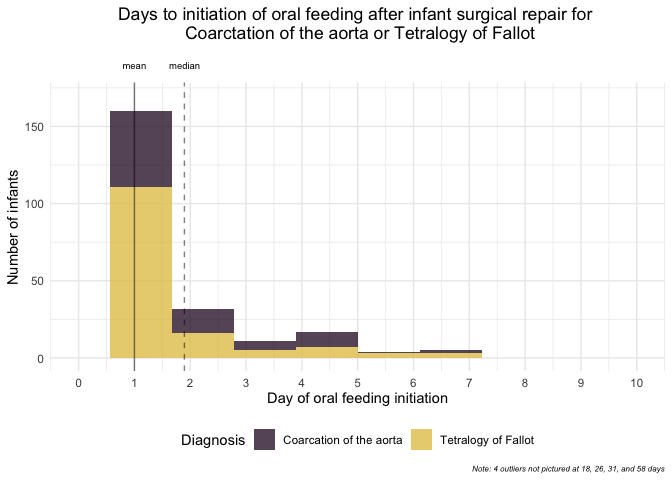
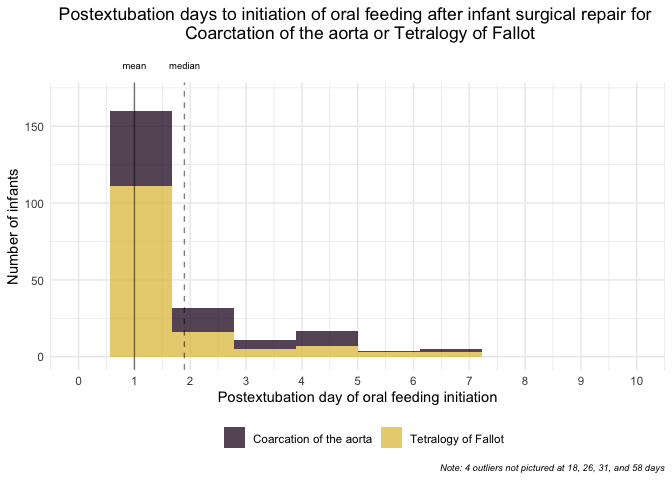
Complete RQ1 visualization 1 (ggplot)

diff --git a/rq1_vis.md b/rq1_vis.md
@@ -12,100 +12,69 @@ On average, how long (days) did it take to initiate the first oral feed
 in the ICU after extubation?
 
 ``` r
+# Create original ggplot
 p <- ggplot() +
-  geom_histogram(data = df_final, aes(x = enteral_d_oral_initiate_day, 
-                    fill = diagnosis),
-                bins = 10, alpha = 0.8)  +
-  scale_fill_manual(name = "Diagnosis", 
-                    labels = c("Coarcation of the aorta",
-                               "Tetralogy of Fallot"),
-                      values = c(CoA = "#371c38", ToF = "#e3c559")) +
+  geom_histogram(
+    data = df_final,
+    aes(
+      x = enteral_d_oral_initiate_day,
+      fill = diagnosis
+    ), 
+    bins = 10, alpha = 0.8
+  ) +
+  scale_fill_manual(
+    name = " ",
+    labels = c("Coarcation of the aorta", "Tetralogy of Fallot"),
+    values = c(CoA = "#371c38", ToF = "#e3c559")
+  ) +
   theme_minimal() +
   theme(
-    plot.title = element_text(hjust = 0.5, margin = margin(0,0,30,0)),
-    plot.caption = element_text(face = "italic", size = 6),
-    legend.position = "bottom") +
-  scale_x_continuous(breaks = seq(0, 10, 1), lim = c(0 , 10)) +
-  labs(title = "Days to initiation of oral feeding after infant surgical repair for \n Coarctation of the aorta or Tetralogy of Fallot",
-       caption = "Note: 4 outliers not pictured at 18, 26, 31, and 58 days") +
-  xlab("Day of oral feeding initiation") +
-  ylab("Number of infants") 
-  scale_fill_brewer(name = "Cut Grade", 
-                    labels = c("Very Bad", "Bad", 
-                               "Mediocre", "Nice", "Very Nice"))
-```
+    plot.title = element_text(
+      hjust = 0.5,
+      margin = margin(0, 0, 30, 0)
+    ),
+    plot.caption = element_text(
+      face = "italic",
+      size = 7
+    ),
+    legend.position = "bottom"
+  ) +
+  scale_x_continuous(
+    breaks = seq(0, 10, 1), lim = c(0, 10)
+  ) +
+  labs(
+    title = "Postextubation days to initiation of oral feeding after infant surgical repair for \n Coarctation of the aorta or Tetralogy of Fallot",
+    caption = "Note: 4 outliers not pictured at 18, 26, 31, and 58 days"
+  ) +
+  xlab("Postextubation day of oral feeding initiation") +
+  ylab("Number of infants")
 
-    ## <ggproto object: Class ScaleDiscrete, Scale, gg>
-    ##     aesthetics: fill
-    ##     axis_order: function
-    ##     break_info: function
-    ##     break_positions: function
-    ##     breaks: waiver
-    ##     call: call
-    ##     clone: function
-    ##     dimension: function
-    ##     drop: TRUE
-    ##     expand: waiver
-    ##     get_breaks: function
-    ##     get_breaks_minor: function
-    ##     get_labels: function
-    ##     get_limits: function
-    ##     guide: legend
-    ##     is_discrete: function
-    ##     is_empty: function
-    ##     labels: Very Bad Bad Mediocre Nice Very Nice
-    ##     limits: NULL
-    ##     make_sec_title: function
-    ##     make_title: function
-    ##     map: function
-    ##     map_df: function
-    ##     n.breaks.cache: NULL
-    ##     na.translate: TRUE
-    ##     na.value: NA
-    ##     name: Cut Grade
-    ##     palette: function
-    ##     palette.cache: NULL
-    ##     position: left
-    ##     range: <ggproto object: Class RangeDiscrete, Range, gg>
-    ##         range: NULL
-    ##         reset: function
-    ##         train: function
-    ##         super:  <ggproto object: Class RangeDiscrete, Range, gg>
-    ##     rescale: function
-    ##     reset: function
-    ##     scale_name: brewer
-    ##     train: function
-    ##     train_df: function
-    ##     transform: function
-    ##     transform_df: function
-    ##     super:  <ggproto object: Class ScaleDiscrete, Scale, gg>
+# Create data frame with mean and median
+df_stats <- df_final %>%
+  summarize(
+    mean = mean(enteral_d_oral_initiate_day),
+    median = median(enteral_d_oral_initiate_day)
+  )
 
-``` r
-# Create df with mean and median 
-df_stats <- df_final %>% 
-  summarize(mean = mean(enteral_d_oral_initiate_day),
-            median = median(enteral_d_oral_initiate_day)) 
-
-
-p + 
-  geom_vline(data = df_stats, aes(xintercept = mean), col = "black", linetype = "dashed", alpha = 0.5) +
-  geom_vline(data = df_stats, aes(xintercept = median), col = "black", linetype = "solid", alpha = 0.5) +
-  annotate("text", x = 1, y = 190, label = "mean", size = 2.5) +
-  annotate("text", x = 1.90, y = 190, label = "median", size = 2.5) +  
-  coord_cartesian(ylim = c(0, 170), clip = "off")
+# Add mean and median lines to original ggplot
+p +
+  geom_vline( # Add mean line
+    data = df_stats,
+    aes(xintercept = mean),
+    col = "black",
+    linetype = "dashed",
+    alpha = 0.5
+  ) +
+  geom_vline( # Add median line
+    data = df_stats,
+    aes(xintercept = median),
+    col = "black",
+    linetype = "solid",
+    alpha = 0.5
+  ) +
+  annotate("text", x = 1, y = 190, label = "mean", size = 2.5) + # Add label
+  annotate("text", x = 1.90, y = 190, label = "median", size = 2.5) + # Add label
+  coord_cartesian(ylim = c(0, 170), clip = "off") # Allow for annotation outside of the plot
 ```
 
 <img src="rq1_vis_files/figure-gfm/unnamed-chunk-2-1.png" style="display: block; margin: auto;" />
-
-``` r
-    annotate("text", x = 1, y = 200, label= "mean = 1", size =3)
-```
-
-    ## mapping: x = ~x, y = ~y 
-    ## geom_text: na.rm = FALSE
-    ## stat_identity: na.rm = FALSE
-    ## position_identity
-
-### RQ1 data visualization \#2
-
-At what times of day was initiation of oral feeding most common?
